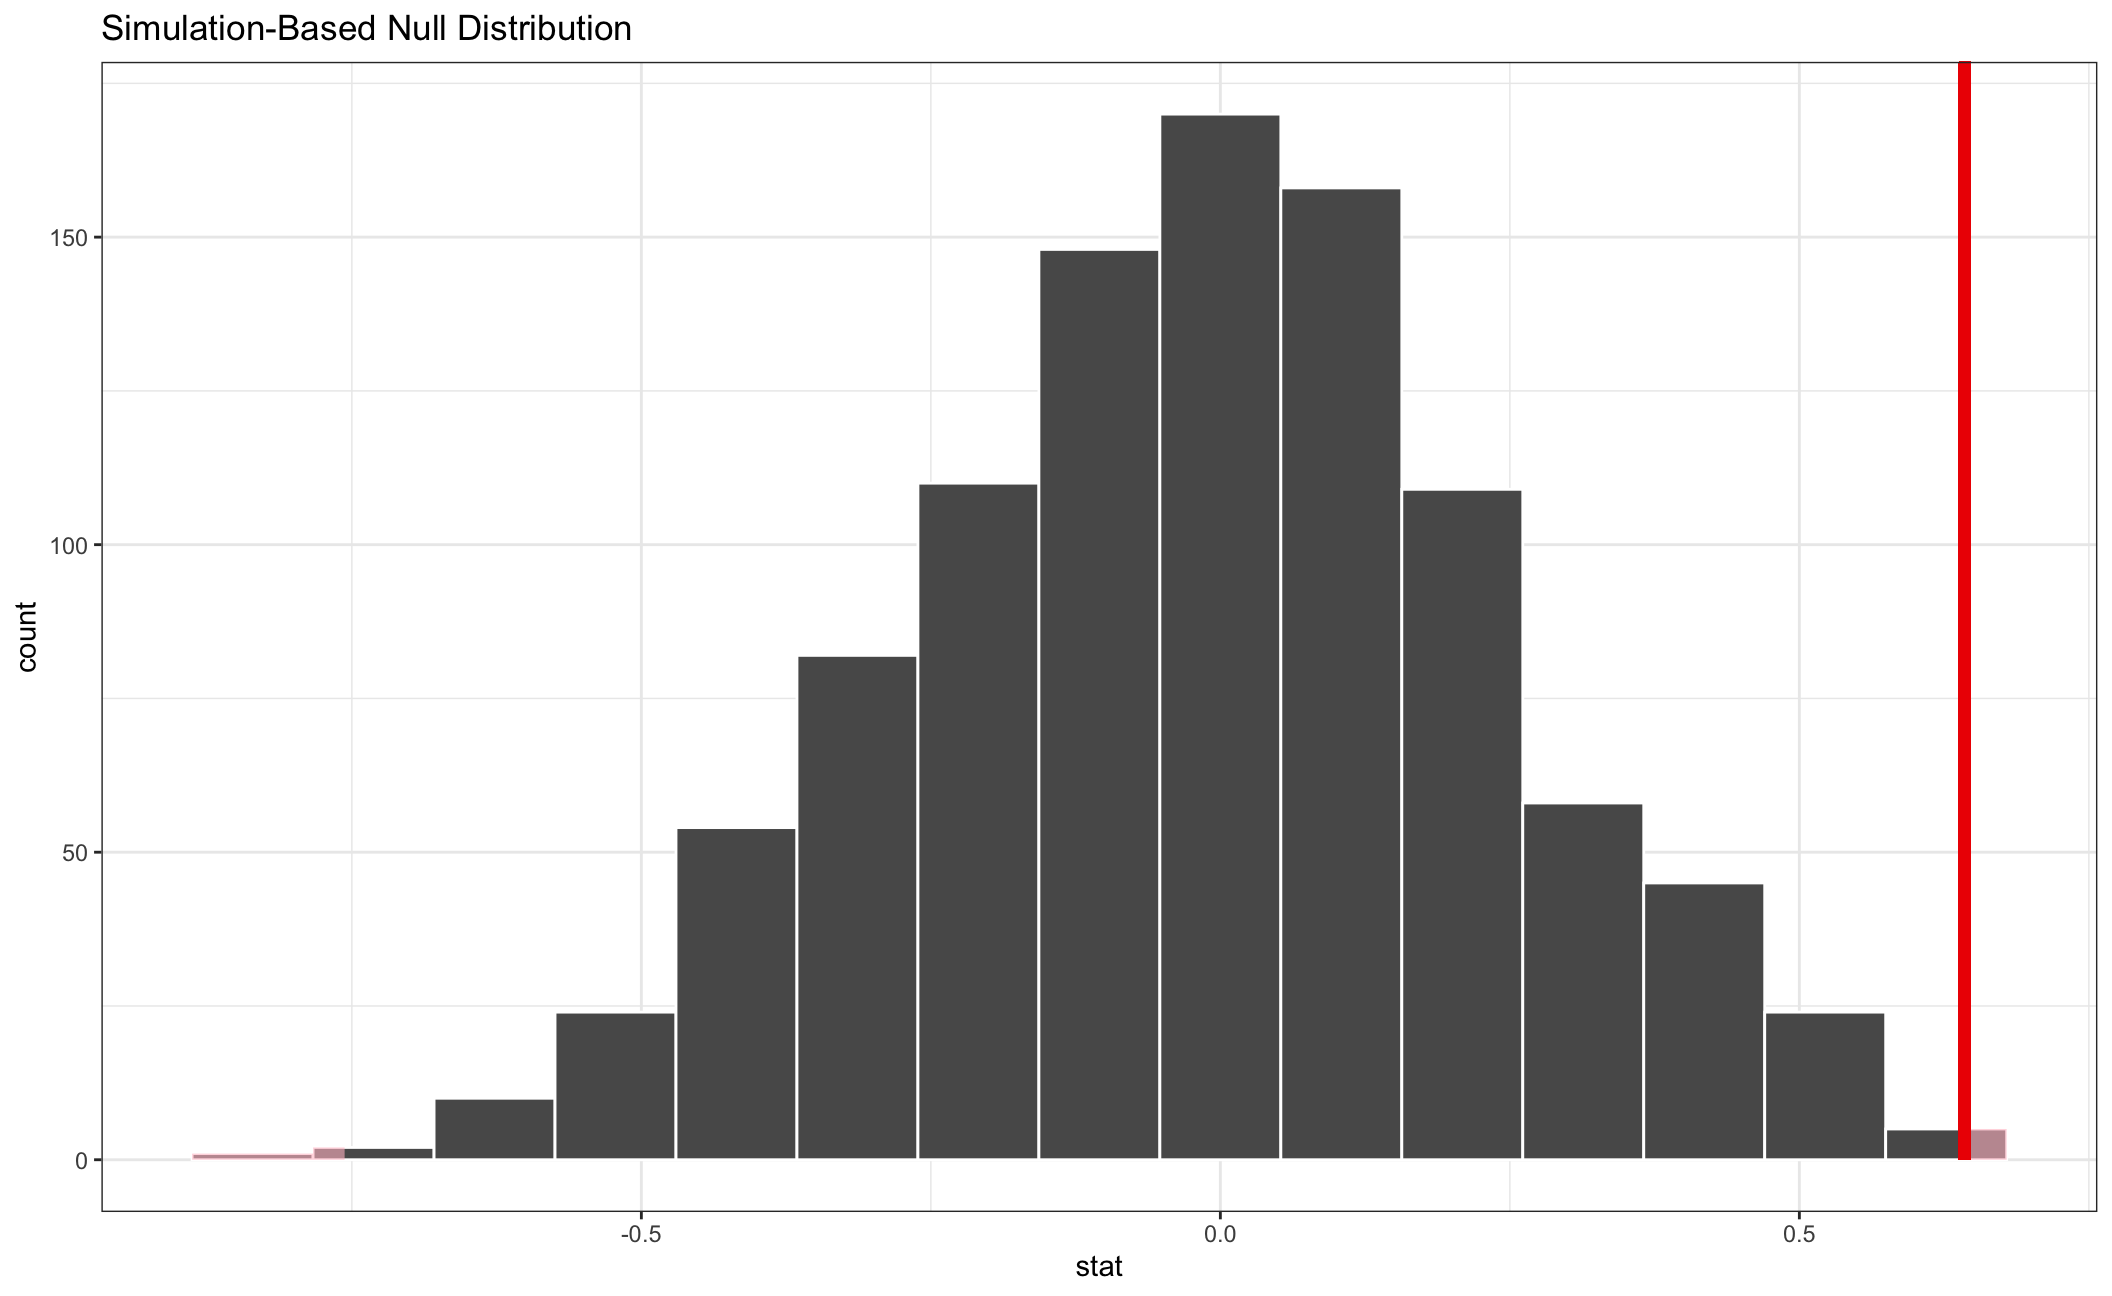
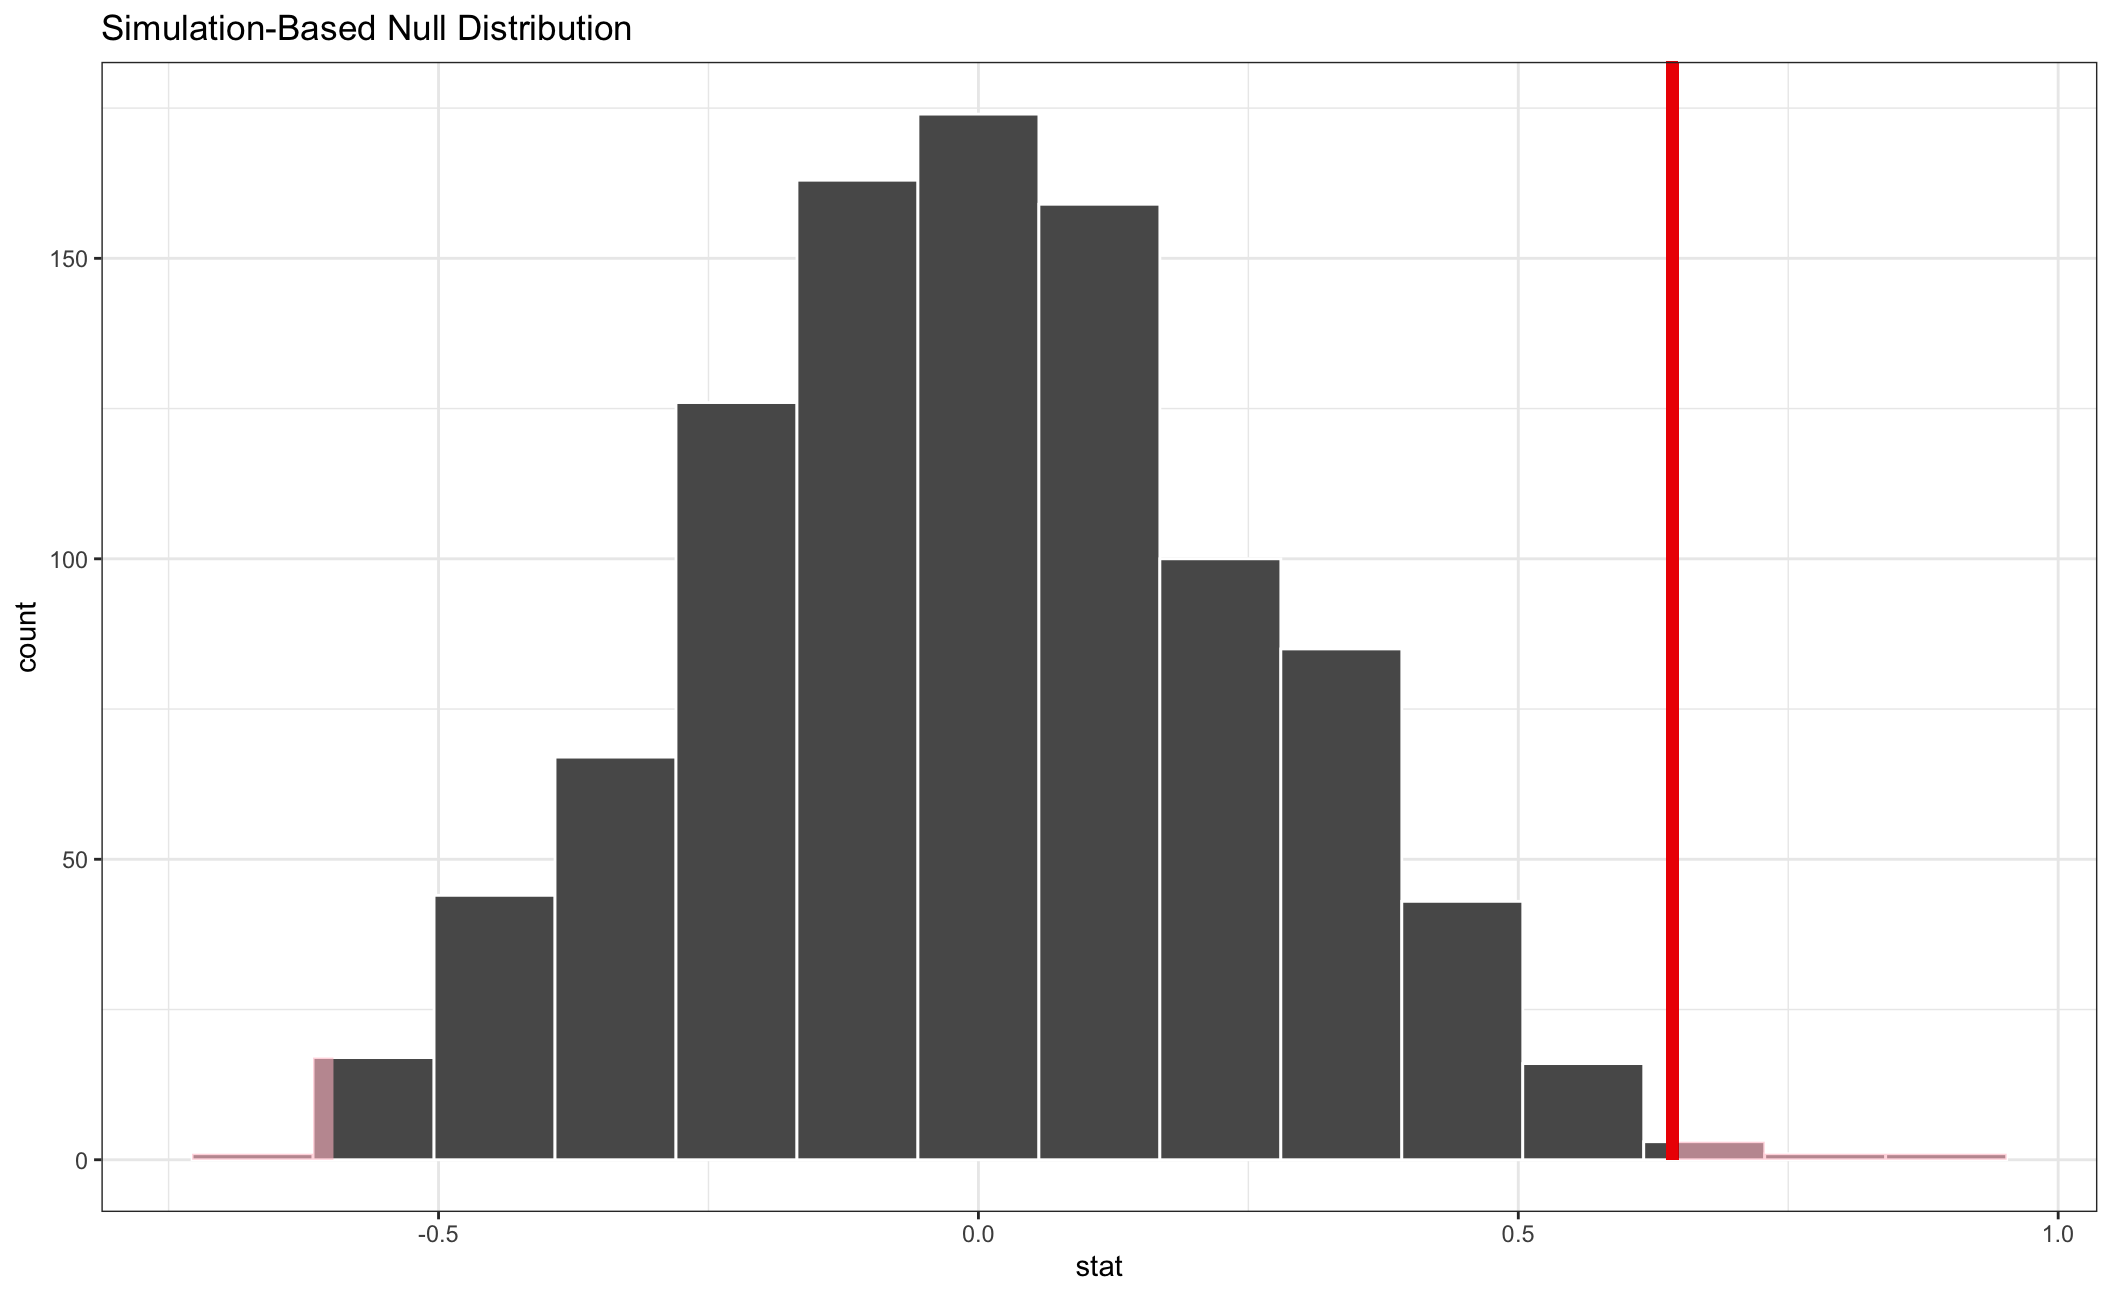
try three

diff --git a/content/blogs/hw3_final.html b/content/blogs/hw3_final.html
@@ -3,12 +3,12 @@ categories:
 - ""
 - ""
 date: "2017-10-31T21:28:43-05:00"
-description: ""
+description: In this project, I took the challenge to take a further look into how the percentage of GDP compositions change over time among different countries and gain insights about diversity of economy.
 draft: false
 image: ""
 keywords: ""
 slug: ipsum
-title: Homework 3 for Applied Statistics 
+title: Project 3 GDP Global Comparison 
 ---
 
 <script src="/rmarkdown-libs/header-attrs/header-attrs.js"></script>
@@ -440,16 +440,16 @@ null_dist</code></pre>
 ## # A tibble: 1,000 × 2
 ##    replicate    stat
 ##        &lt;int&gt;   &lt;dbl&gt;
-##  1         1 -0.0314
-##  2         2 -0.315 
-##  3         3 -0.0425
-##  4         4  0.272 
-##  5         5  0.119 
-##  6         6  0.640 
-##  7         7  0.0389
-##  8         8 -0.289 
-##  9         9 -0.0289
-## 10        10  0.218 
+##  1         1  0.444 
+##  2         2 -0.223 
+##  3         3 -0.431 
+##  4         4 -0.448 
+##  5         5  0.345 
+##  6         6 -0.177 
+##  7         7  0.139 
+##  8         8 -0.0968
+##  9         9 -0.188 
+## 10        10 -0.575 
 ## # … with 990 more rows</code></pre>
 <p>Here, <code>hypothesize</code> is used to set the null hypothesis as a test for independence, i.e., that there is no difference between the two population means. In one sample cases, the null argument can be set to <em>point</em> to test a hypothesis relative to a point estimate.</p>
 <p>Also, note that the <code>type</code> argument within generate is set to permute, which is the argument when generating a null distribution for a hypothesis test.</p>
@@ -577,16 +577,16 @@ null_dist1</code></pre>
 ## # A tibble: 1,000 × 2
 ##    replicate    stat
 ##        &lt;int&gt;   &lt;dbl&gt;
-##  1         1 -0.248 
-##  2         2  0.0386
-##  3         3  0.0704
-##  4         4  0.0174
-##  5         5  0.346 
-##  6         6 -0.120 
-##  7         7 -0.0674
-##  8         8  0.155 
-##  9         9  0.113 
-## 10        10  0.208 
+##  1         1 -0.0356
+##  2         2 -0.407 
+##  3         3  0.198 
+##  4         4  0.145 
+##  5         5 -0.555 
+##  6         6 -0.301 
+##  7         7 -0.0144
+##  8         8  0.123 
+##  9         9  0.145 
+## 10        10  0.717 
 ## # … with 990 more rows</code></pre>
 <pre class="r"><code>ggplot(data = null_dist1, aes(x = stat)) +
   geom_histogram()+

diff --git a/content/blogs/hw2-twice.html b/content/blogs/hw2-twice.html
@@ -3,12 +3,12 @@ categories:
 - ""
 - ""
 date: "2017-10-31T22:26:09-06:00"
-description: In this project,I mainly worked on worldbank data and investigated the correlation of GDP,fertility rate, life expectancy and education level in different countries worldwide.
+description: In this project, I mainly worked on worldbank data and investigated the correlation of GDP, fertility rate, life expectancy and education level in different countries throughout the world.
 draft: false
 image: ""
 keywords: ""
 slug: hwtwo
-title: Project 2 for Applied Statistics 
+title: Project 2 Insights on Worldbank Data 
 ---
 
 <script src="/rmarkdown-libs/header-attrs/header-attrs.js"></script>

diff --git a/content/blogs/hw1.html b/content/blogs/hw1.html
@@ -3,12 +3,12 @@ categories:
 - ""
 - ""
 date: "2017-10-31T22:26:09-05:00"
-description: Lorem Etiam Nullam
+description: In this project, I collaborated with five group members and conducted analytics on IBM HR data and Covid Vaccination V.S. Election Results. 
 draft: false
 image: ""
 keywords: ""
 slug: magna
-title: Homework 1 for Applied Statistics 
+title: Project 1 Covid Vaccination V.S. Election Results
 ---
 
 <script src="/rmarkdown-libs/header-attrs/header-attrs.js"></script>

diff --git a/content/blog3.md b/content/blog3.md
@@ -1,0 +1,34 @@
+---
+categories:
+- ""
+- ""
+date: "2017-10-31T22:26:13-05:00"
+description: Hello, I am Jiaying Chen, a girl from Shanghai, China. Get to know me better!
+draft: false
+image: me.jpeg
+keywords: ""
+slug: aliquam
+title: About Me
+---
+
+Hi, I am *Jiaying Chen*. I am from *Shanghai, China*. I graduated from the School of Economics of *Peking University*,majoring in Finance. Now I am reading for Masters in Analytics and Management degree in London Business School.
+
+I would use three keywords to describe my characteristic:
+-   Curious
+-   Reliable
+-   Compassionate
+
+
+And here is my [Linkedin profile](https://www.linkedin.com/in/jiaying-chen-0934) where you can find more information about my past experience.
+
+
+In my spare time, I am fond of arts. And my favorite artist is Bato Dugarzhapov. Here is one of my favorite works.
+
+
+![Image caption](https://i.pinimg.com/originals/ae/a0/52/aea0528570933ed52efd390cb9836134.jpg)
+
+
+
+
+I also enjoy playing sports with my friends. Fencing and squash are my favorites.
+

diff --git a/content/blogs/_index.md b/content/blogs/_index.md
@@ -1,9 +1,9 @@
 ---
 date: "2017-10-31T22:27:21-05:00"
 draft: false
-image: purple.jpg
+image: monet_sunset.jpg
 slug: blogs
 title: My projects
 ---
 
-Learn more about my projects, analytical thinking and insights in LBS MAM 2022.
+Learn more about my analytical thinking and insights through my previous projects.
